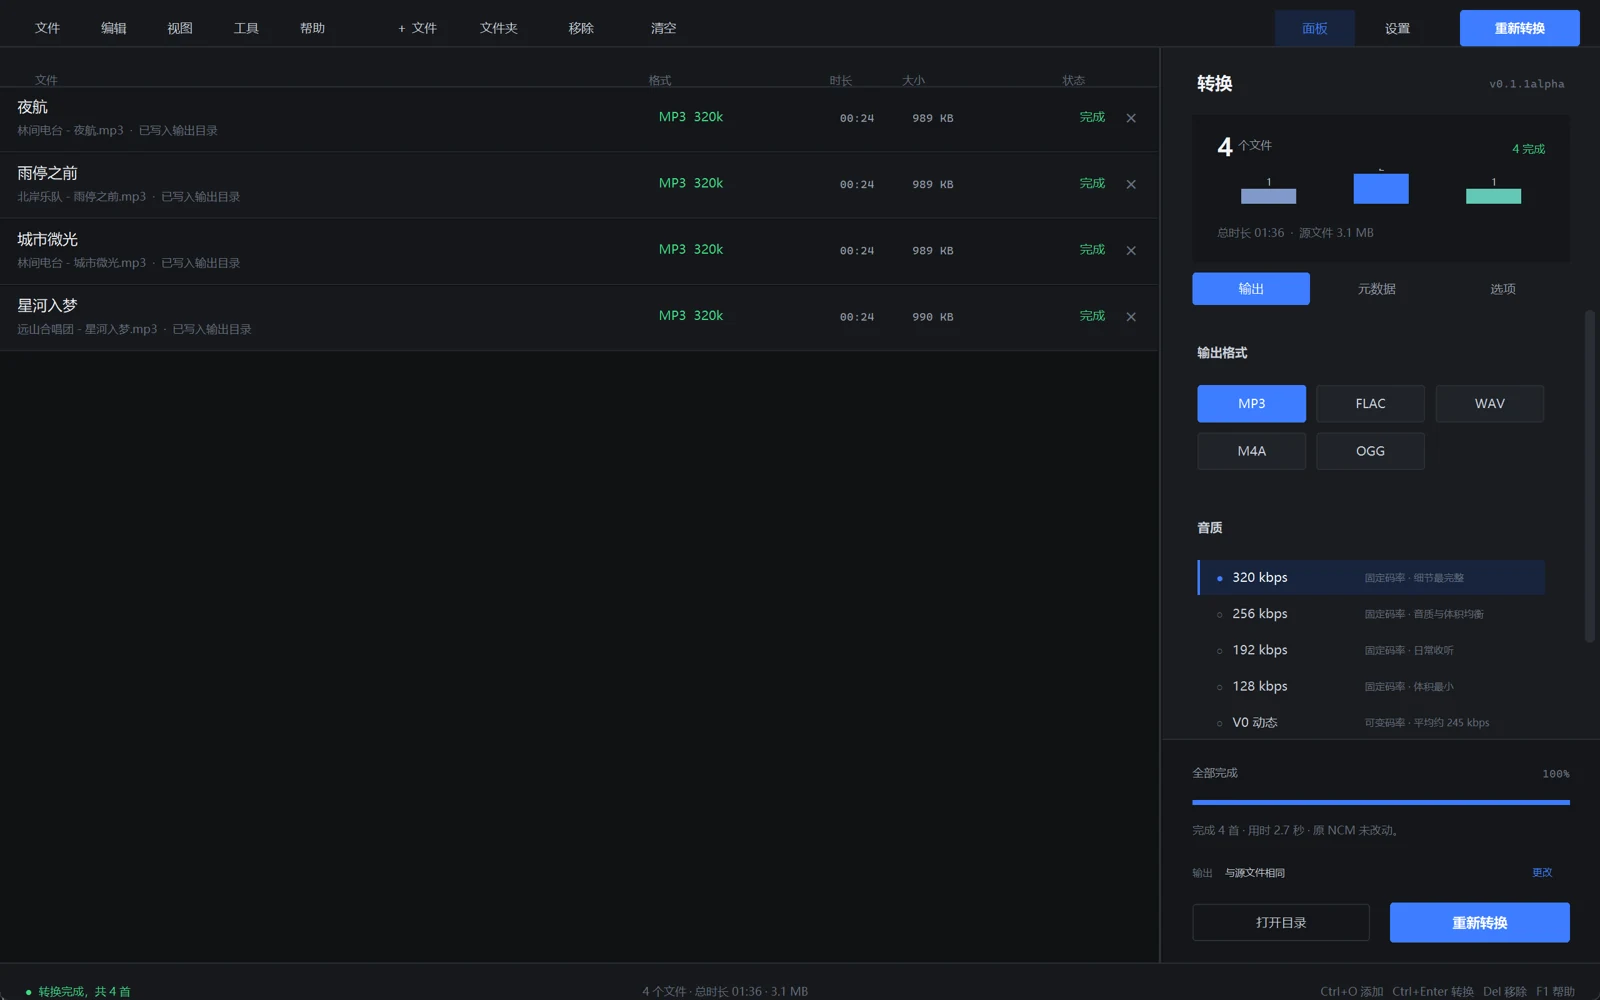
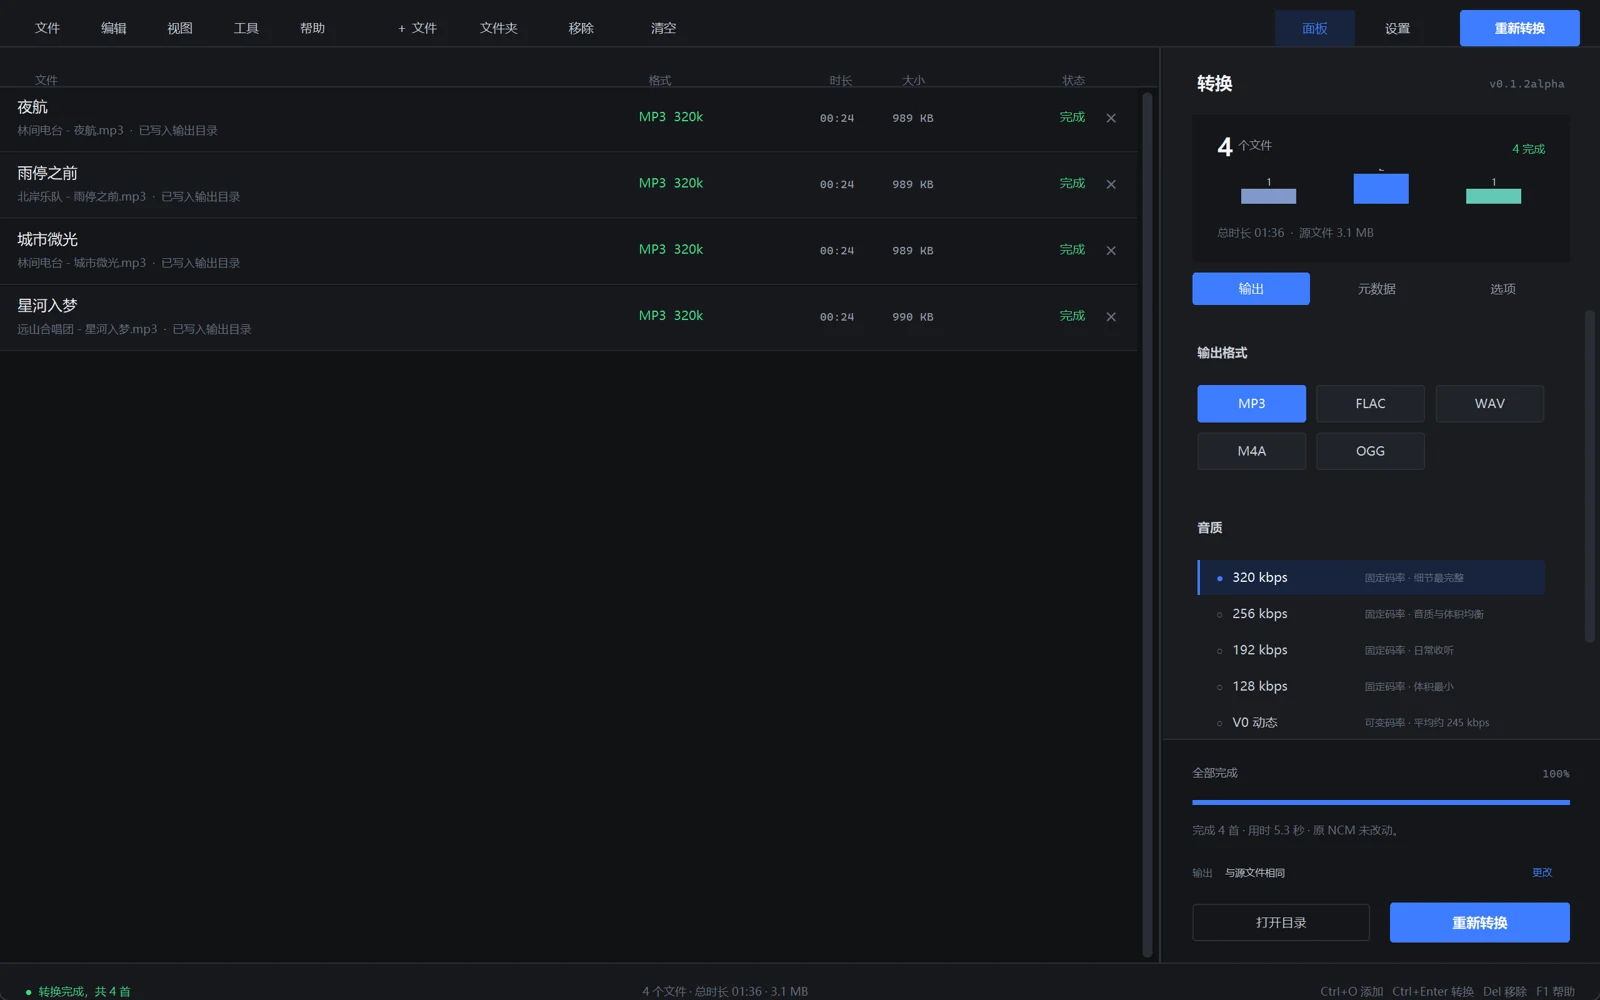
ncmelt 0.1.2alpha: cleaner docs and smoother scrolling

diff --git a/docs/index.html b/docs/index.html
@@ -45,7 +45,7 @@
         "applicationCategory": "MultimediaApplication",
         "applicationSubCategory": "Audio converter",
         "operatingSystem": "Windows 10, Windows 11",
-        "softwareVersion": "0.1.1alpha",
+        "softwareVersion": "0.1.2alpha",
         "url": "https://11ly322.github.io/ncmelt/",
         "downloadUrl": "https://github.com/11ly322/ncmelt/releases/latest",
         "license": "https://www.gnu.org/licenses/gpl-3.0.html",
@@ -71,7 +71,7 @@
         <a class="brand" href="#top" aria-label="ncmelt 首页">
             <img src="assets/icon-64.png" width="30" height="30" alt="">
             <span class="brand-name">ncmelt</span>
-            <span class="brand-version">0.1.1alpha</span>
+            <span class="brand-version">0.1.2alpha</span>
         </a>
 
         <nav class="desktop-nav" aria-label="主导航">
@@ -115,7 +115,7 @@
         <div class="hero-grid-bg" aria-hidden="true"></div>
         <div class="container hero-grid">
             <div class="hero-copy">
-                <p class="eyebrow"><span class="eyebrow-dot"></span>v0.1.1alpha <span class="eyebrow-sep">/</span> Windows 10 &amp; 11</p>
+                <p class="eyebrow"><span class="eyebrow-dot"></span>v0.1.2alpha <span class="eyebrow-sep">/</span> Windows 10 &amp; 11</p>
                 <h1>NCM<br><span class="hero-gradient">快捷转换器</span></h1>
                 <p class="hero-lead">
                     把网易云下载的 <code>.ncm</code> 变成真正能播放的
@@ -144,7 +144,7 @@
                 <div class="preview-shell">
                     <div class="preview-bar">
                         <span class="window-dots" aria-hidden="true"><i></i><i></i><i></i></span>
-                        <span class="preview-title">ncmelt 0.1.1alpha</span>
+                        <span class="preview-title">ncmelt 0.1.2alpha</span>
                         <span class="preview-state"><i></i>本地运行</span>
                     </div>
                     <a class="preview-image" href="screenshot-done.png" target="_blank" rel="noopener"
@@ -320,7 +320,7 @@
                 <div class="app-window" id="shot-panel" role="tabpanel" aria-labelledby="shot-tab-ready" tabindex="0">
                     <div class="app-titlebar">
                         <span class="window-dots" aria-hidden="true"><i></i><i></i><i></i></span>
-                        <span class="app-title">ncmelt 0.1.1alpha</span>
+                        <span class="app-title">ncmelt 0.1.2alpha</span>
                         <span class="app-state"><i></i><span id="shot-state-text">就绪</span></span>
                     </div>
                     <img id="shot-image"
@@ -483,7 +483,7 @@
 
                 <div class="download-options">
                     <a class="download-row download-row-primary"
-                       href="https://github.com/11ly322/ncmelt/releases/download/v0.1.1alpha/ncmelt-Setup-0.1.1alpha.exe">
+                       href="https://github.com/11ly322/ncmelt/releases/download/v0.1.2alpha/ncmelt-Setup-0.1.2alpha.exe">
                         <span class="download-icon">
                             <svg viewBox="0 0 24 24" width="20" height="20" aria-hidden="true"><path fill="none" stroke="currentColor" stroke-width="1.7" stroke-linecap="round" stroke-linejoin="round" d="M12 3v11m0 0 4-4m-4 4-4-4M5 17v2h14v-2"/></svg>
                         </span>
@@ -491,11 +491,11 @@
                             <strong>下载安装版 <em>推荐</em></strong>
                             <span>选择安装位置 · 可选桌面快捷方式 · 可选 PATH</span>
                         </span>
-                        <span class="download-size">≈ 44 MB<svg viewBox="0 0 24 24" width="15" height="15" aria-hidden="true"><path fill="none" stroke="currentColor" stroke-width="2" stroke-linecap="round" stroke-linejoin="round" d="m9 5 7 7-7 7"/></svg></span>
+                        <span class="download-size">≈ 43 MB<svg viewBox="0 0 24 24" width="15" height="15" aria-hidden="true"><path fill="none" stroke="currentColor" stroke-width="2" stroke-linecap="round" stroke-linejoin="round" d="m9 5 7 7-7 7"/></svg></span>
                     </a>
 
                     <a class="download-row"
-                       href="https://github.com/11ly322/ncmelt/releases/download/v0.1.1alpha/ncmelt-0.1.1alpha-portable-win64.zip">
+                       href="https://github.com/11ly322/ncmelt/releases/download/v0.1.2alpha/ncmelt-0.1.2alpha-portable-win64.zip">
                         <span class="download-icon">
                             <svg viewBox="0 0 24 24" width="20" height="20" aria-hidden="true"><path fill="none" stroke="currentColor" stroke-width="1.7" stroke-linecap="round" stroke-linejoin="round" d="M5 4h14v16H5zM9 4v16m0-12h2m-2 3h2m-2 3h2"/></svg>
                         </span>
@@ -503,11 +503,11 @@
                             <strong>下载便携版</strong>
                             <span>解压即用 · 不写注册表 · 适合放在 U 盘</span>
                         </span>
-                        <span class="download-size">≈ 62 MB<svg viewBox="0 0 24 24" width="15" height="15" aria-hidden="true"><path fill="none" stroke="currentColor" stroke-width="2" stroke-linecap="round" stroke-linejoin="round" d="m9 5 7 7-7 7"/></svg></span>
+                        <span class="download-size">≈ 60 MB<svg viewBox="0 0 24 24" width="15" height="15" aria-hidden="true"><path fill="none" stroke="currentColor" stroke-width="2" stroke-linecap="round" stroke-linejoin="round" d="m9 5 7 7-7 7"/></svg></span>
                     </a>
 
                     <div class="download-checks">
-                        <span>校验下载文件：<a href="https://github.com/11ly322/ncmelt/releases/download/v0.1.1alpha/SHA256SUMS.txt">SHA256SUMS.txt</a></span>
+                        <span>校验下载文件：<a href="https://github.com/11ly322/ncmelt/releases/download/v0.1.2alpha/SHA256SUMS.txt">SHA256SUMS.txt</a></span>
                         <a href="https://github.com/11ly322/ncmelt/releases" target="_blank" rel="noopener">所有版本 ↗</a>
                     </div>
                 </div>
@@ -594,13 +594,12 @@
                 <h4>关于</h4>
                 <a href="https://github.com/11ly322/ncmelt/blob/main/LICENSE" target="_blank" rel="noopener">GPL-3.0 许可</a>
                 <a href="https://github.com/11ly322/ncmelt/blob/main/THIRD_PARTY_NOTICES.txt" target="_blank" rel="noopener">第三方组件</a>
-                <a href="https://github.com/11ly322/Prism" target="_blank" rel="noopener">界面致敬 Prism</a>
                 <a href="https://github.com/11ly322/ncmelt/blob/main/docs/screenshot-ready.png" target="_blank" rel="noopener">界面截图</a>
             </div>
         </div>
 
         <div class="footer-bottom">
-            <p>© 2026 11ly322 · ncmelt 0.1.1alpha</p>
+            <p>© 2026 11ly322 · ncmelt 0.1.2alpha</p>
             <p>非官方工具，与网易云音乐无关联。请仅转换你合法拥有、供个人使用的音乐文件。</p>
             <a class="back-top" href="#top" aria-label="回到顶部">↑ 顶部</a>
         </div>

diff --git a/ncmelt/gui.py b/ncmelt/gui.py
@@ -1,4 +1,4 @@
-"""Main window for ncmelt, modelled on Prism's workspace/panel workflow."""
+"""Main window for ncmelt with workspace, side panel and status bar."""
 
 from __future__ import annotations
 
@@ -31,6 +31,7 @@ from .ui_components import (
     duration_text,
     human_size,
     truncate,
+    tune_scrollable,
 )
 from .ui_menu import MenuPopup
 from .ui_side import HelpDialog, SettingsDialog, SidePanel
@@ -89,7 +90,7 @@ class ConverterApp(ctk.CTk, TkinterDnD.DnDWrapper):
         self._dnd_registered: set[str] = set()
         self._drag_hide_job: str | None = None
         self._last_drop = (0.0, "")
-        self._list_sync_job: str | None = None
+        self._scroll_paint_job: str | None = None
         self._settings_dialog: SettingsDialog | None = None
         self._help_dialog: HelpDialog | None = None
 
@@ -276,10 +277,7 @@ class ConverterApp(ctk.CTk, TkinterDnD.DnDWrapper):
         )
         self.file_list.grid(row=1, column=0, sticky="nsew")
         self.file_list.grid_columnconfigure(0, weight=1)
-        self.file_list.bind("<Configure>", self._schedule_list_scrollbar, add="+")
-        self.file_list._parent_canvas.bind(
-            "<Configure>", self._schedule_list_scrollbar, add="+"
-        )
+        tune_scrollable(self.file_list, self.scale)
 
         self.empty_state = EmptyState(
             workspace, self.choose_files, self.choose_folder
@@ -413,6 +411,7 @@ class ConverterApp(ctk.CTk, TkinterDnD.DnDWrapper):
         self.bind_all("<Delete>", lambda _e: self.remove_selected())
         self.bind_all("<F1>", lambda _e: self.show_help())
         self.bind_all("<Escape>", self._escape)
+        self.bind_all("<MouseWheel>", self._queue_scroll_paint, add="+")
 
     def _escape(self, event=None) -> None:
         # A dialog's own Escape binding runs before this global binding. Do not
@@ -579,7 +578,6 @@ class ConverterApp(ctk.CTk, TkinterDnD.DnDWrapper):
         self.side_panel._refresh_output_warning()
         self._update_start_buttons()
         self._update_toolbar_states()
-        self._schedule_list_scrollbar()
 
     def _update_toolbar_states(self) -> None:
         state = "disabled" if self.converting or not self.items else "normal"
@@ -1306,26 +1304,27 @@ class ConverterApp(ctk.CTk, TkinterDnD.DnDWrapper):
     def _set_status(self, text: str, color: str = T.MUTED) -> None:
         self.status_label.configure(text=f"●  {text}", text_color=color)
 
-    def _schedule_list_scrollbar(self, _event=None) -> None:
-        if self._list_sync_job is not None:
-            try:
-                self.after_cancel(self._list_sync_job)
-            except ValueError:
-                pass
-        self._list_sync_job = self.after(80, self._sync_list_scrollbar)
+    def _queue_scroll_paint(self, _event=None) -> None:
+        # CTk's wheel binding runs at the "all" tag. Flush after it so newly
+        # exposed canvas areas are repainted in the same frame instead of
+        # leaving a short visual trail.
+        if self._scroll_paint_job is not None:
+            return
+        self._scroll_paint_job = self.after(8, self._flush_scroll_paint)
 
-    def _sync_list_scrollbar(self) -> None:
-        self._list_sync_job = None
-        try:
-            first, last = self.file_list._parent_canvas.yview()
-            needed = (last - first) < 0.999
-            mapped = bool(self.file_list._scrollbar.winfo_ismapped())
-            if needed and not mapped:
-                self.file_list._scrollbar.grid()
-            elif not needed and mapped:
-                self.file_list._scrollbar.grid_remove()
-        except Exception:
-            LOG.debug("File list scrollbar sync failed", exc_info=True)
+    def _flush_scroll_paint(self) -> None:
+        self._scroll_paint_job = None
+        if self._closing or not self.winfo_exists():
+            return
+        for frame in (self.file_list, getattr(self.side_panel, "body", None)):
+            if frame is None:
+                continue
+            try:
+                canvas = frame._parent_canvas
+                canvas.configure(scrollregion=canvas.bbox("all"))
+                canvas.update_idletasks()
+            except Exception:
+                LOG.debug("Scroll repaint failed", exc_info=True)
 
     def _check_ffmpeg(self) -> None:
         try:

diff --git a/ncmelt/ui_side.py b/ncmelt/ui_side.py
@@ -10,7 +10,7 @@ import customtkinter as ctk
 from . import APP_SUBTITLE, __version__ as APP_VERSION
 from . import theme as T
 from .formats import OUTPUT_FORMATS, format_by_id
-from .ui_components import SummaryBars, human_size, shrink_path
+from .ui_components import SummaryBars, human_size, shrink_path, tune_scrollable
 
 LOG = logging.getLogger(__name__)
 
@@ -26,7 +26,6 @@ class SidePanel(ctk.CTkFrame):
         self._quality_rows: dict[str, ctk.CTkFrame] = {}
         self._naming_buttons: dict[str, ctk.CTkButton] = {}
         self._overwrite_buttons: dict[str, ctk.CTkButton] = {}
-        self._scroll_job: str | None = None
 
         self.grid_columnconfigure(0, weight=1)
         self.grid_rowconfigure(3, weight=1)
@@ -43,12 +42,6 @@ class SidePanel(ctk.CTkFrame):
         self.refresh_format()
         self.refresh_switches()
         self.set_output_display()
-        self.bind("<Configure>", self._schedule_scrollbar, add="+")
-        self.body.bind("<Configure>", self._schedule_scrollbar, add="+")
-        self.body._parent_canvas.bind(
-            "<Configure>", self._schedule_scrollbar, add="+"
-        )
-        self.after(200, self._sync_scrollbar)
 
     def p(self, value: int) -> int:
         return self.app.px(value)
@@ -152,6 +145,7 @@ class SidePanel(ctk.CTkFrame):
         )
         self.body.grid(row=3, column=0, sticky="nsew")
         self.body.grid_columnconfigure(0, weight=1)
+        tune_scrollable(self.body, self.app.scale)
         self._tab_frames: dict[str, ctk.CTkFrame] = {}
         for key, _label in self.TABS:
             frame = ctk.CTkFrame(self.body, fg_color="transparent")
@@ -476,7 +470,6 @@ class SidePanel(ctk.CTkFrame):
                 btn.configure(fg_color=T.ACCENT, text_color="#FFFFFF")
             else:
                 btn.configure(fg_color="transparent", text_color=T.MUTED)
-        self._schedule_scrollbar()
 
     def refresh_format(self) -> None:
         current = self.app.format_id
@@ -638,7 +631,6 @@ class SidePanel(ctk.CTkFrame):
             self.action_status.configure(text=status)
         if summary is not None:
             self.summary_label.configure(text=summary)
-        self._schedule_scrollbar()
 
     def set_converting(self, converting: bool) -> None:
         if converting:
@@ -678,27 +670,6 @@ class SidePanel(ctk.CTkFrame):
         self.percent_label.configure(text="0%")
         self.action_status.configure(text="就绪", text_color=T.MUTED)
         self.summary_label.configure(text="添加 NCM 文件后即可开始")
-
-    def _schedule_scrollbar(self, _event=None) -> None:
-        if self._scroll_job is not None:
-            try:
-                self.after_cancel(self._scroll_job)
-            except ValueError:
-                pass
-        self._scroll_job = self.after(80, self._sync_scrollbar)
-
-    def _sync_scrollbar(self) -> None:
-        self._scroll_job = None
-        try:
-            first, last = self.body._parent_canvas.yview()
-            needed = (last - first) < 0.999
-            mapped = bool(self.body._scrollbar.winfo_ismapped())
-            if needed and not mapped:
-                self.body._scrollbar.grid()
-            elif not needed and mapped:
-                self.body._scrollbar.grid_remove()
-        except Exception:
-            LOG.debug("Side panel scrollbar sync failed", exc_info=True)
 
 
 class SettingsDialog(ctk.CTkToplevel):

diff --git a/ncmelt/ui_components.py b/ncmelt/ui_components.py
@@ -1,4 +1,4 @@
-"""Reusable UI pieces for the Prism-style ncmelt interface."""
+"""Reusable UI pieces for the ncmelt interface."""
 
 from __future__ import annotations
 
@@ -34,6 +34,17 @@ def asset_path(name: str) -> Path | None:
 def truncate(text: str, limit: int) -> str:
     text = (text or "").replace("\n", " ").strip()
     return text if len(text) <= limit else text[: limit - 1] + "…"
+
+
+def tune_scrollable(frame: Any, scale: float) -> None:
+    """Keep canvas scrolling pixel-aligned and avoid fractional repaints."""
+    canvas = getattr(frame, "_parent_canvas", None)
+    if canvas is None:
+        return
+    try:
+        canvas.configure(yscrollincrement=max(1, int(round(scale))))
+    except Exception:
+        pass
 
 
 def shrink_path(path: str, limit: int = 48) -> str:

diff --git a/scripts/make_icon.py b/scripts/make_icon.py
@@ -1,4 +1,4 @@
-"""Create the ncmelt icon in the flat, geometric style of Prism."""
+"""Create the ncmelt application icon."""
 
 from __future__ import annotations
 
@@ -51,8 +51,7 @@ def make_icon(size: int = 1024) -> Image.Image:
     )
 
     # A big geometric down arrow, split into a steel-blue left face and a
-    # vivid blue right face. This echoes Prism's faceted mountain without
-    # copying its artwork.
+    # vivid blue right face.
     split = size * 0.505
     head_y = size * 0.475
     tip_y = size * 0.800

diff --git a/ncmelt/__init__.py b/ncmelt/__init__.py
@@ -1,6 +1,6 @@
 """ncmelt - NCM to MP3 converter."""
 
-__version__ = "0.1.1alpha"
-VERSION_TAG = "v0.1.1alpha"
+__version__ = "0.1.2alpha"
+VERSION_TAG = "v0.1.2alpha"
 APP_NAME = "ncmelt"
 APP_SUBTITLE = "NCM to MP3 converter"

diff --git a/ncmelt/theme.py b/ncmelt/theme.py
@@ -1,4 +1,4 @@
-"""Visual tokens inspired by Prism's flat dark UI."""
+"""Visual tokens for ncmelt's dark desktop interface."""
 
 from __future__ import annotations
 

diff --git a/RELEASE_NOTES.md b/RELEASE_NOTES.md
@@ -1,17 +1,17 @@
-# ncmelt 0.1.1alpha
+# ncmelt 0.1.2alpha
 
-首个公开 alpha 版本。ncmelt 是一个本地运行的网易云 NCM 转换器，提供 Prism 风格的桌面界面、批量队列和同源 CLI。
+ncmelt 0.1.1alpha 的维护更新。ncmelt 是一个本地运行的网易云 NCM 转换器，提供桌面工作区界面、批量队列和同源 CLI。
 
 官网：https://11ly322.github.io/ncmelt/
 
 ## 下载
 
-- `ncmelt-Setup-0.1.1alpha.exe` — Windows 安装器
+- `ncmelt-Setup-0.1.2alpha.exe` — Windows 安装器
   - 可选择安装位置
   - 可选创建桌面快捷方式
   - 可选把 `ncmelt` 加入 PATH
   - 不需要管理员权限
-- `ncmelt-0.1.1alpha-portable-win64.zip` — 便携版，解压即用
+- `ncmelt-0.1.2alpha-portable-win64.zip` — 便携版，解压即用
 - `SHA256SUMS.txt` — 校验值
 
 发布包已内置 FFmpeg 7.1，无需另行安装。系统要求 Windows 10/11 64 位。
@@ -25,10 +25,13 @@
 - 编码后完整解码校验，失败文件单独标记。
 - 原 NCM 不修改；默认同名自动编号，可选覆盖。
 - CLI：`ncmelt input.ncm -o output.mp3`。
-- 安装器与界面图标向 Prism 的扁平几何风格致敬；操作结构参考 Prism 的工作区 / 右侧面板 / 底部状态栏。
+- 界面采用顶部菜单、中央队列、右侧输出面板和底部状态栏，支持整窗拖入文件。
 - 修正 200% 缩放下顶部菜单与设置/帮助对话框的定位和尺寸。
 - 修正隐藏右侧面板后残留空白、对话框内按 Esc 误取消转换、CLI 目录模式 `--overwrite` 无效，以及多输入时把 `-o mix.mp3` 误当目录的问题。
-- 0.1.1alpha 版本号、安装器、GitHub Release 与源码同步发布。
+- 优化队列和右侧面板的滚动重绘：滚动步长按缩放比例对齐，移除滚动条动态隐藏造成的布局跳动和拖影。
+- 程序只保留内置功能，不包含插件或扩展入口。
+- 清理界面、文档和第三方说明中的第三方项目名称。
+- 0.1.2alpha 版本号、安装器、GitHub Release 与源码同步发布。
 
 ## 已知限制
 
